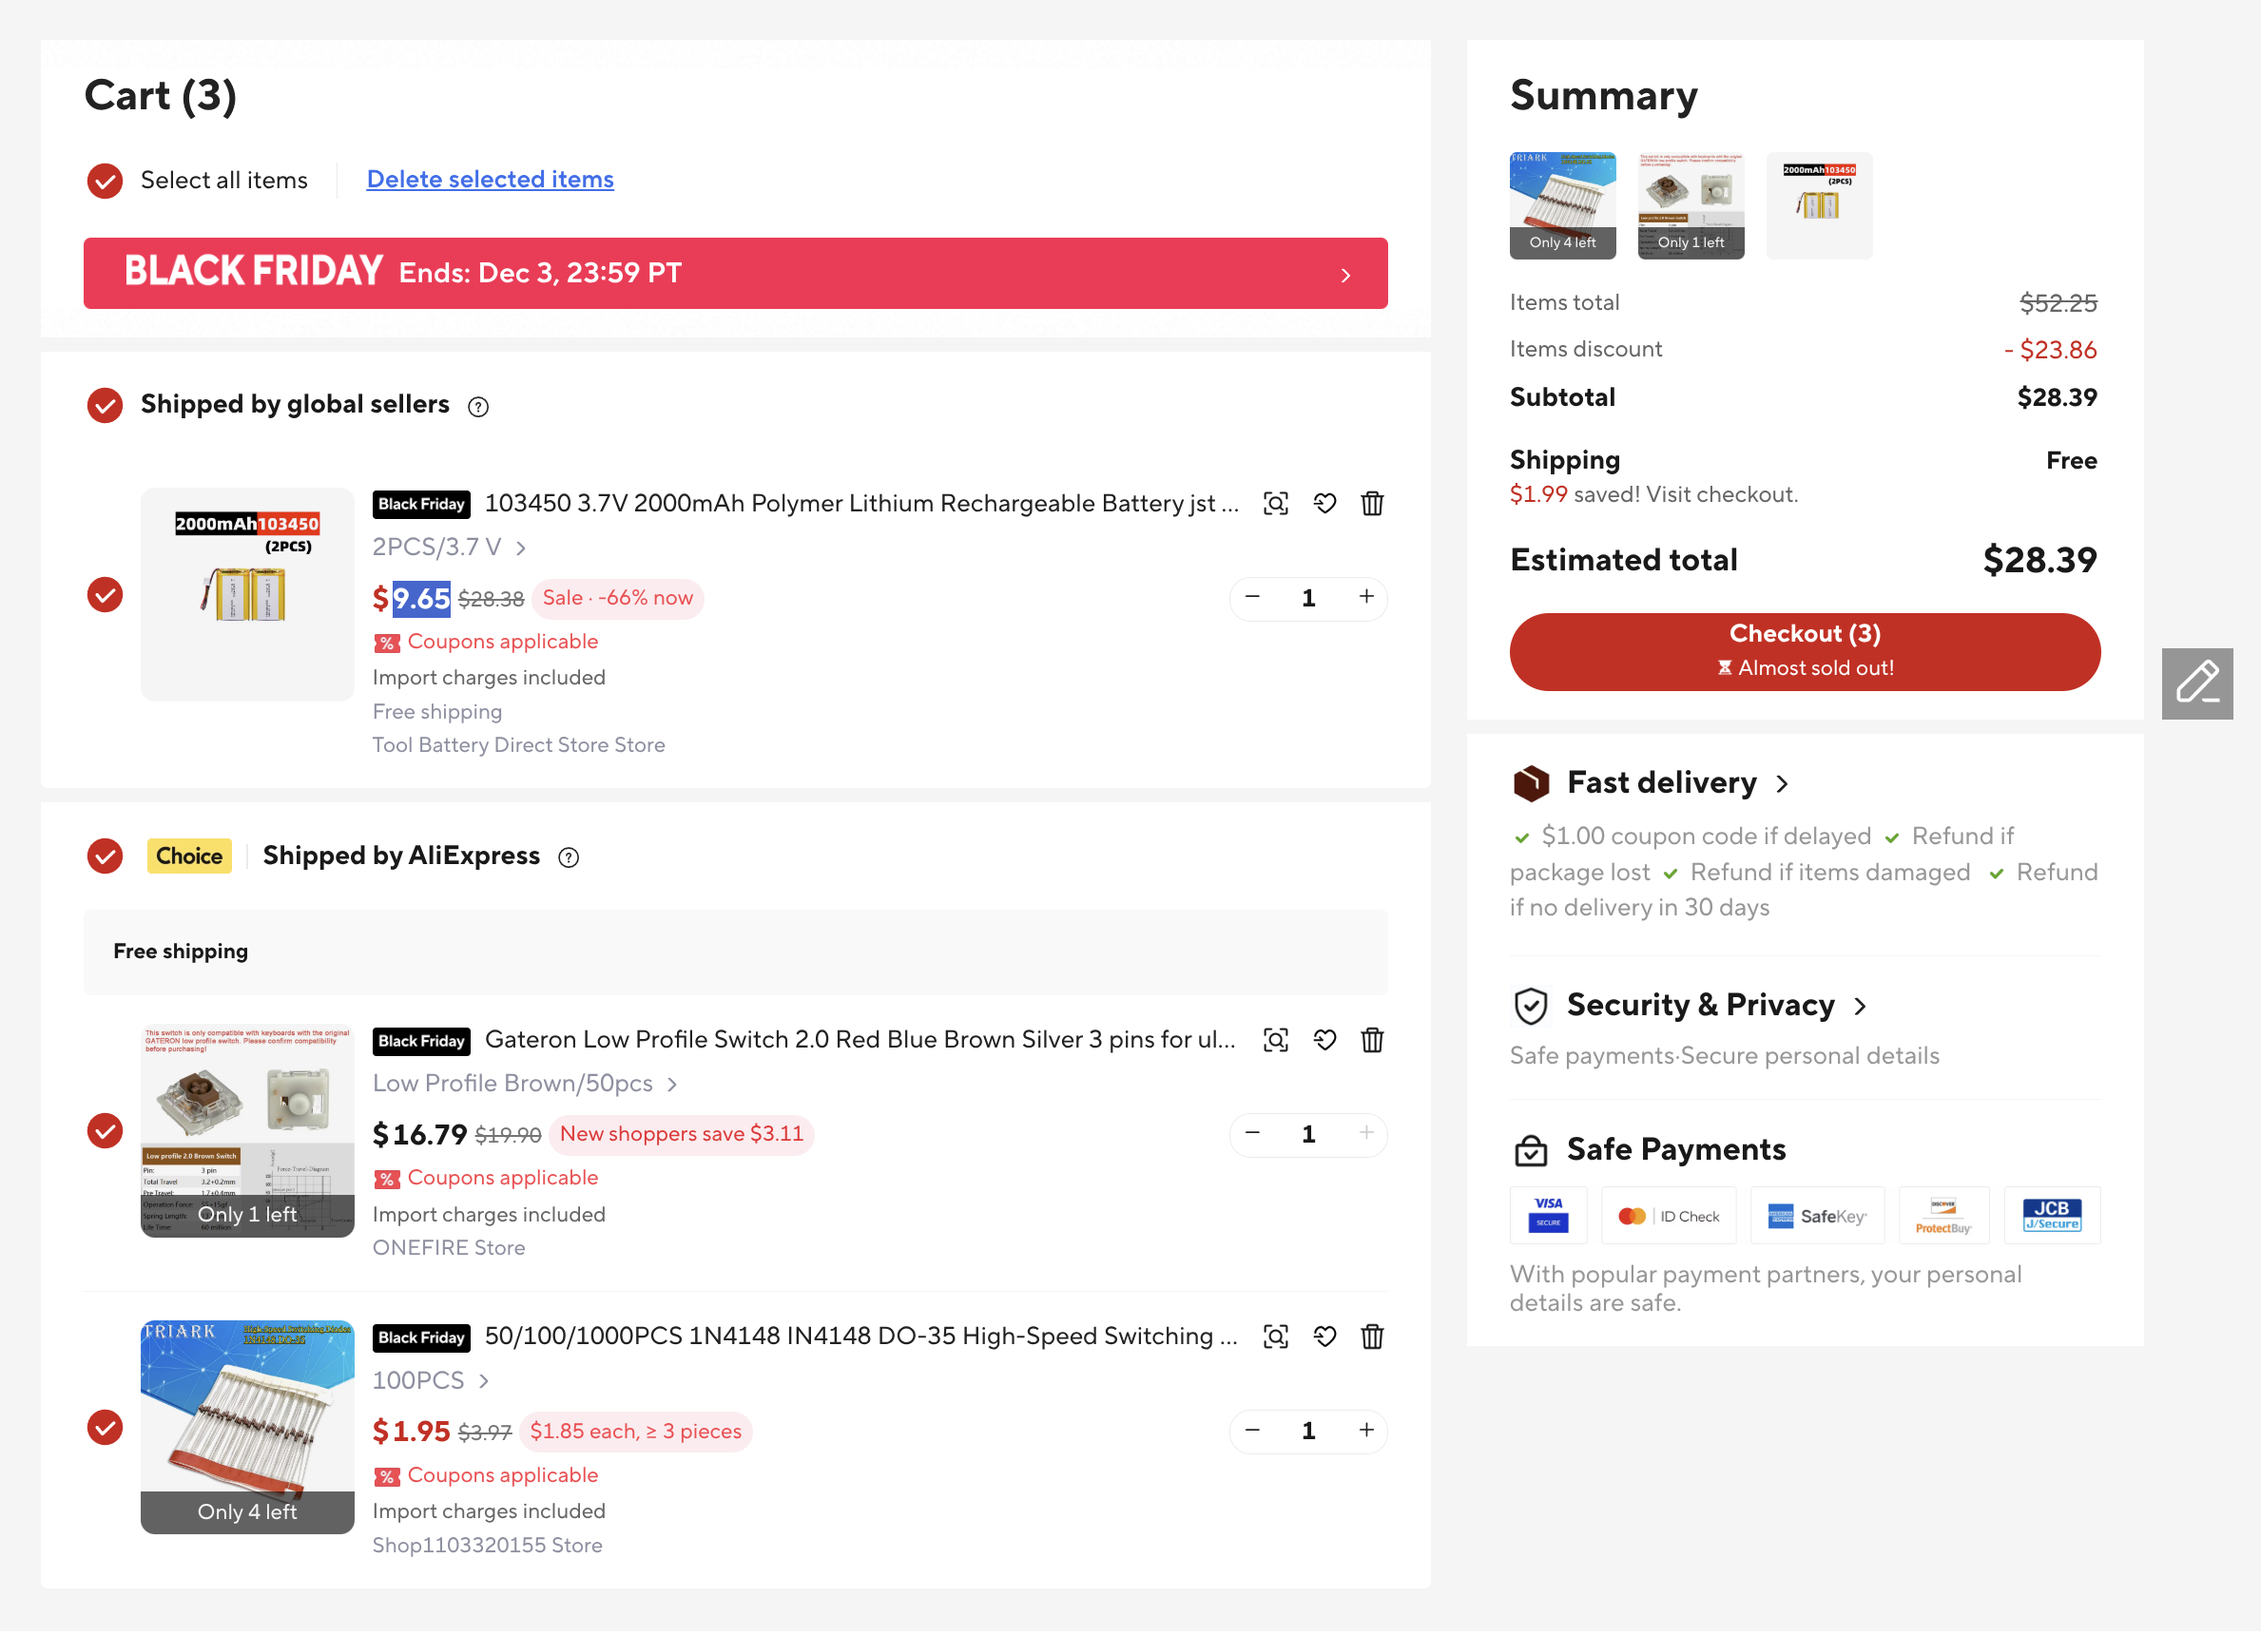
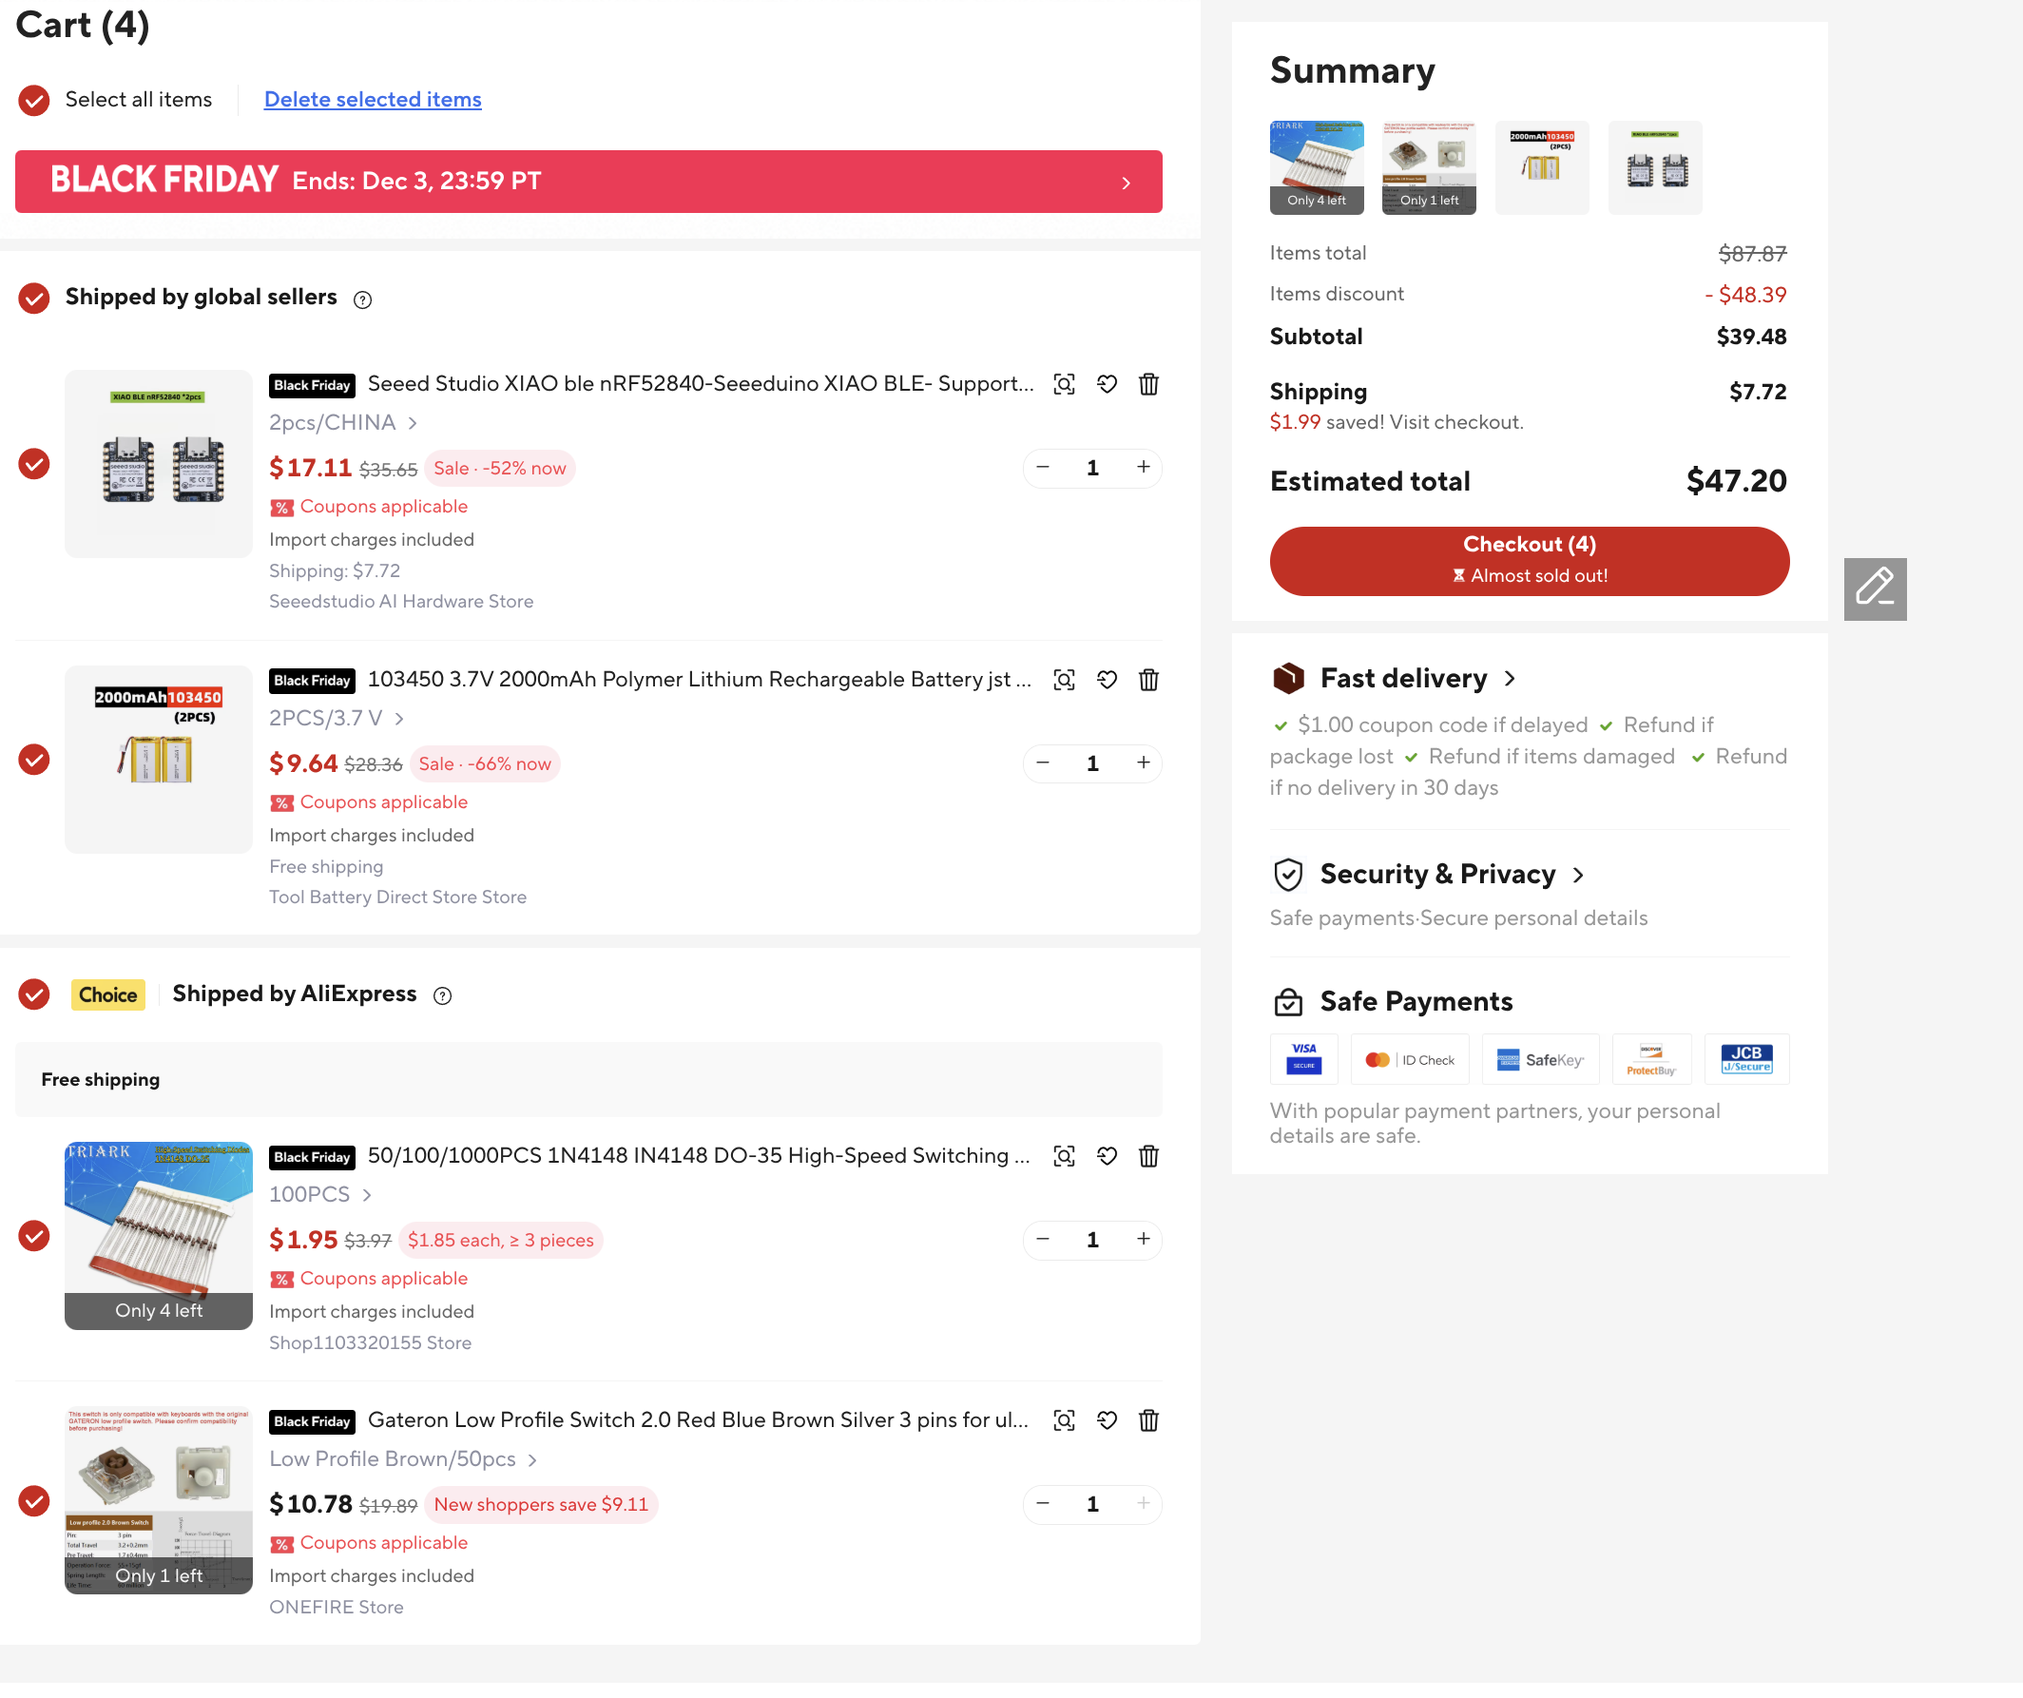
lowered xiao price

diff --git a/README.md b/README.md
@@ -6,7 +6,7 @@ My first project I am making on my own. A basic wireless split keyboard
 
 | Amount          | Name                                     | Source                                                                                                                                      | Price |
 |-----------------|------------------------------------------|---------------------------------------------------------------------------------------------------------------------------------------------|-------|
-| 2               | XIAO-nRF52840                            | [seeedstudio](https://www.seeedstudio.com/Seeed-XIAO-BLE-nRF52840-p-5201.html)                                                              | 17.98 |
+| 2               | XIAO-nRF52840                            | [aliexpress](https://www.aliexpress.us/item/3256806802639384.html) not including $7.72 shipping                                             | 17.98 |
 | 42 (min 50)     | Gateron Low Profile Switch 2.0           | [aliexpress](https://www.aliexpress.us/item/3256806684099095.html)                                                                          | 16.79 |
 | 2               | 103450 3.7V 2000mAh Polymer Lithium      | [aliexpress](https://www.aliexpress.us/item/3256809404408618.html)                                                                          | 9.65  |
 | 42 (min 50)     | IN4148 DO-35 High-Speed Switching Diodes | [aliexpress](https://www.aliexpress.us/item/3256809192784213.html) (buying 100 is .48 more than buying 50)                                  | 1.95  |
@@ -26,8 +26,7 @@ My first project I am making on my own. A basic wireless split keyboard
 | JLC Cart        | <img src=imgs/jlccart.png width="500">           |
 | JLC + Shipping  | <img src=imgs/jlcfinal.png width="500">          |
 | Aliexpress Cart | <img src=imgs/aliexpresscart.png width="500">    |
-| Seeed Cart      | <img src=imgs/seeedcart.png width="500">         |
 
 # Total Price (without 3d printed parts)
-## $82.01
-- 28.09 JLC + 25.53 Aliexpress + 28.39 Seeed Studio
+## $75.29
+- 28.09 JLC + 47.2 Aliexpress
